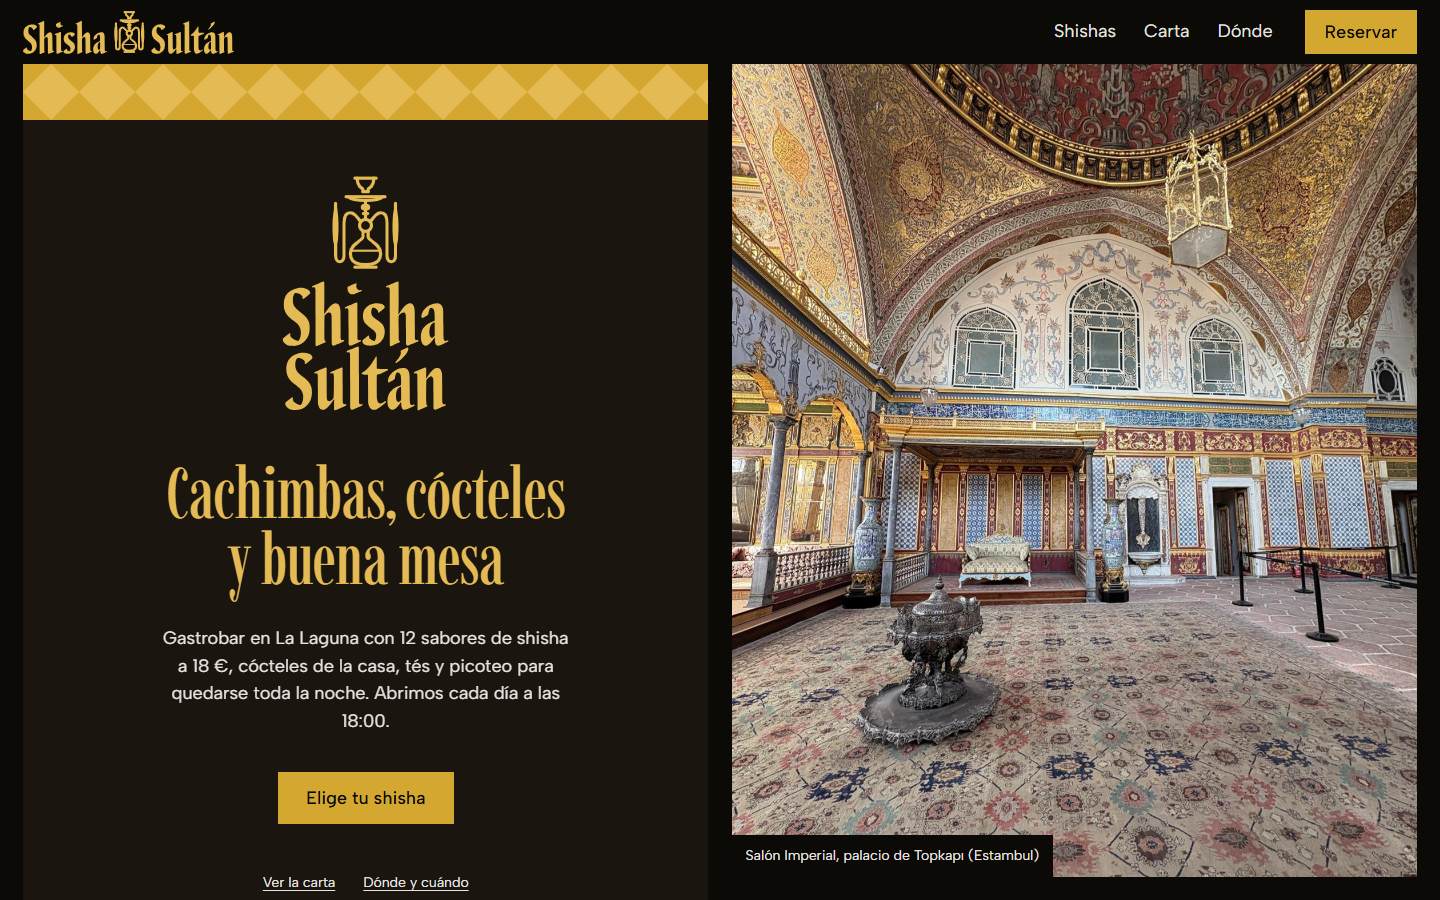
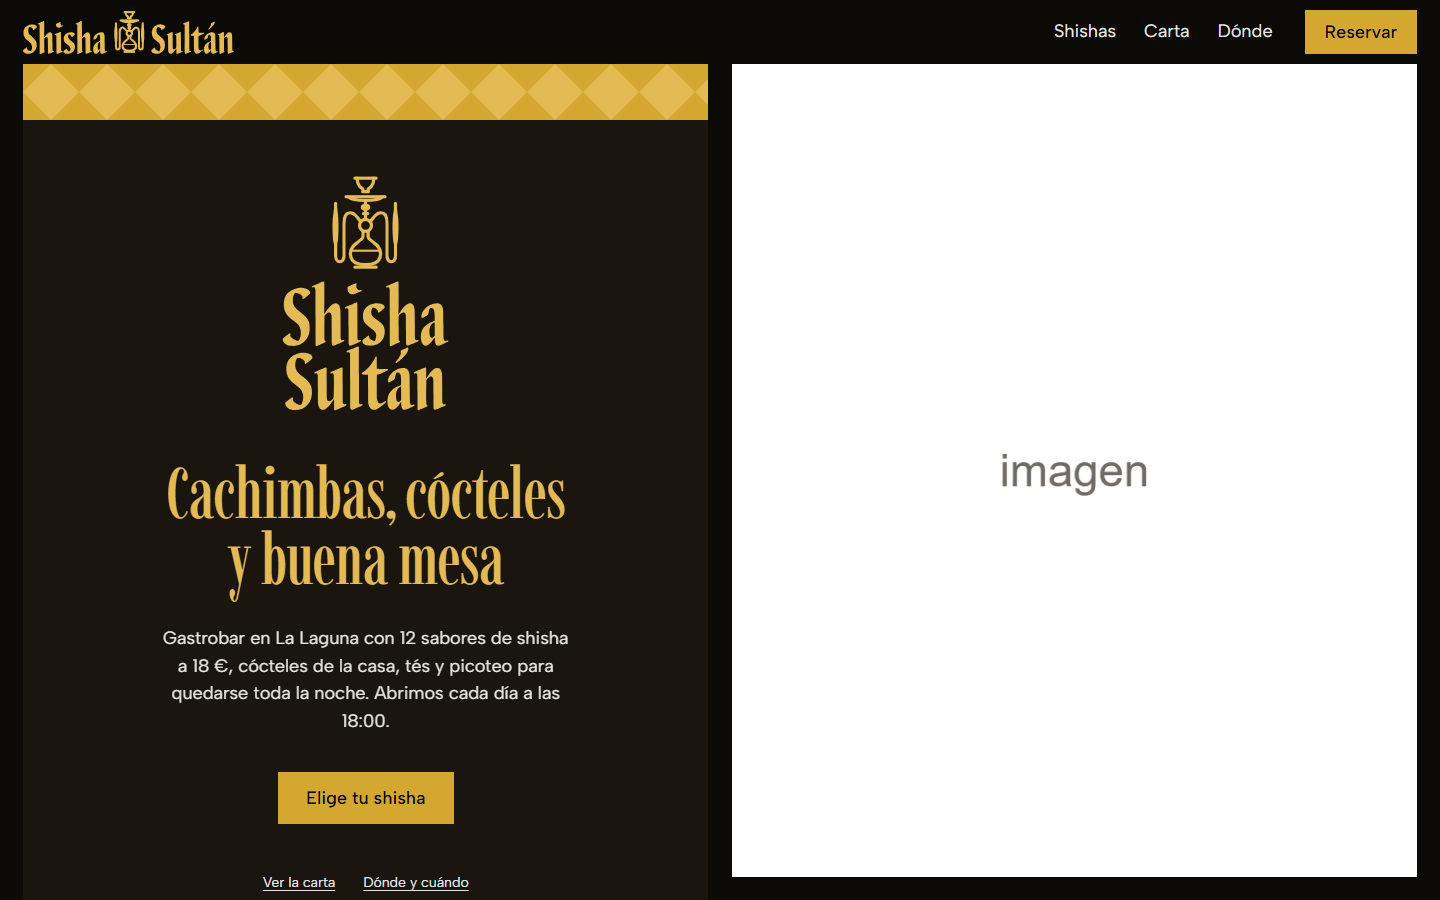
Cambia las fotos por una imagen blanca provisional
Las cuatro fotos (portada, shishas, carta y fondo del pie) pasan a
ser assets/imagen.svg, una imagen blanca con la palabra «imagen»,
hasta tener fotos propias del local. Se quitan los pies de foto,
los créditos de Wikimedia y las fotos de archivo. El fondo del pie
se oscurece un poco más para que el texto se lea.

diff --git a/index.html b/index.html
@@ -17,7 +17,6 @@
 </script>
 <meta property="og:title" content="Shisha Sultán · Gastrobar y cachimbas">
 <meta property="og:description" content="12 sabores de shisha a 18 €, cócteles, tés y picoteo en La Laguna. Todos los días desde las 18:00.">
-<meta property="og:image" content="assets/topkapi-palace-imperial-hall-general-view.jpg">
 <link rel="preconnect" href="https://fonts.googleapis.com">
 <link rel="preconnect" href="https://fonts.gstatic.com" crossorigin>
 <link href="https://fonts.googleapis.com/css2?family=Imbue:opsz,wght@10..100,500&family=Albert+Sans:wght@400;500&display=swap" rel="stylesheet">
@@ -28,7 +27,6 @@
   "name": "Shisha Sultán",
   "description": "Gastrobar y lounge de cachimbas: 12 sabores de shisha, cócteles, tés y picoteo.",
   "url": "https://oliva3blanca.github.io/shisha-sultan-web/",
-  "image": "https://oliva3blanca.github.io/shisha-sultan-web/assets/topkapi-palace-imperial-hall-general-view.jpg",
   "telephone": "+34 822 64 16 12",
   "address": {
     "@type": "PostalAddress",
@@ -90,8 +88,7 @@
       </div>
     </section>
     <figure class="escena__foto escena__foto--portada">
-      <img src="assets/topkapi-palace-imperial-hall-general-view.jpg" alt="Salón Imperial del palacio de Topkapı, con azulejos, cúpula dorada y alfombras" width="1200" height="1600" fetchpriority="high">
-      <figcaption>Salón Imperial, palacio de Topkapı (Estambul)</figcaption>
+      <img src="assets/imagen.svg" alt="" width="1000" height="1000" fetchpriority="high">
     </figure>
   </div>
 
@@ -135,8 +132,7 @@
       </div>
 
       <figure class="shishas__foto">
-        <img src="assets/pierre-loti.jpg" alt="Retrato antiguo en blanco y negro de un hombre sentado junto a una nargile" width="989" height="1600" loading="lazy" decoding="async">
-        <figcaption>Pierre Loti con su nargile, hacia 1900</figcaption>
+        <img src="assets/imagen.svg" alt="" width="1000" height="1000" loading="lazy" decoding="async">
       </figure>
     </div>
   </section>
@@ -162,8 +158,7 @@
     </div>
 
     <div class="escena__foto escena__foto--lectura" aria-hidden="true">
-      <img class="activa" src="assets/torok-kavehazban.jpg" alt="" width="934" height="1600" loading="lazy" decoding="async">
-      <p class="escena__pie">Un café otomano, pintura de hacia 1560</p>
+      <img class="activa" src="assets/imagen.svg" alt="" width="1000" height="1000" loading="lazy" decoding="async">
     </div>
   </div>
 
@@ -200,7 +195,7 @@
 
 <footer class="pie">
   <svg class="capitone capitone--fino" aria-hidden="true" focusable="false"><rect width="100%" height="100%" fill="url(#rombo-oro)"/></svg>
-  <img class="pie__foto" src="assets/topkapi-palace-istanbul-turkey.jpg" alt="" width="1600" height="1200" loading="lazy" decoding="async">
+  <img class="pie__foto" src="assets/imagen.svg" alt="" width="1000" height="1000" loading="lazy" decoding="async">
   <div class="pie__arriba">
     <ul>
       <li><a href="#shishas">Shishas</a></li>
@@ -212,8 +207,8 @@
   </div>
   <div class="pie__abajo">
     <img class="pie__nombre" src="brand/logo-nombre-oro.svg" alt="Shisha Sultán" width="1200" height="259" loading="lazy">
-    <p class="pie__legal">© 2026 Shisha Sultán · Solo mayores de 18 años · Imágenes: <!-- creditos:inicio -->
-<a href="https://commons.wikimedia.org/wiki/File:In_a_Turkish_coffee_house.jpg">Casa de café otomana</a> (autor desconocido, dominio público), <a href="https://commons.wikimedia.org/wiki/File:Topkapi_Palace_Imperial_Hall_General_View.jpg">Salón Imperial de Topkapı</a> (Emirrnk1, CC BY-SA 4.0), <a href="https://commons.wikimedia.org/wiki/File:Topkapi_Palace,_Istanbul,_Turkey.JPG">Techo del harén de Topkapı</a> (Thingstodoeverywhere, dominio público), <a href="https://commons.wikimedia.org/wiki/File:Pierre_Loti.jpg">Pierre Loti</a> (Nérostrateur, dominio público), en Wikimedia Commons
+    <p class="pie__legal">© 2026 Shisha Sultán · Solo mayores de 18 años<!-- creditos:inicio -->
+
 <!-- creditos:fin --></p>
   </div>
 </footer>

diff --git a/styles.css b/styles.css
@@ -146,7 +146,7 @@ h1, h2, h3, h4 { font-family: var(--display); font-weight: 500; letter-spacing: 
 @keyframes cambia { from { opacity: 0; transform: translateY(10px); } to { opacity: 1; transform: none; } }
 
 .shishas__foto { grid-column: 1 / 5; grid-row: 3; }
-.shishas__foto img { width: 100%; aspect-ratio: 4 / 5; object-fit: cover; object-position: 50% 15%; filter: grayscale(1) contrast(1.05); }
+.shishas__foto img { width: 100%; aspect-ratio: 4 / 5; object-fit: cover; }
 .shishas__foto figcaption { font-size: var(--step-small); margin-top: 12px; color: var(--tabaco); }
 
 /* ---------- lectura: carta y la casa ---------- */
@@ -207,7 +207,7 @@ h1, h2, h3, h4 { font-family: var(--display); font-weight: 500; letter-spacing: 
 /* ---------- pie ---------- */
 .pie { position: relative; min-height: 100svh; display: flex; flex-direction: column; justify-content: space-between; overflow: hidden; color: var(--marfil); }
 .pie .capitone--fino { position: relative; z-index: 2; }
-.pie__foto { position: absolute; inset: 8px 0 0; width: 100%; height: calc(100% - 8px); object-fit: cover; filter: brightness(0.42); }
+.pie__foto { position: absolute; inset: 8px 0 0; width: 100%; height: calc(100% - 8px); object-fit: cover; filter: brightness(0.3); }
 .pie__arriba, .pie__abajo { position: relative; z-index: 1; padding: 32px var(--m); }
 .pie__arriba { display: flex; justify-content: space-between; gap: 32px; flex-wrap: wrap; }
 .pie__arriba ul { display: grid; gap: 8px; }

diff --git a/herramientas/generar_carta.py b/herramientas/generar_carta.py
@@ -58,6 +58,8 @@ def carta(secciones):
 
 
 def creditos(lista):
+    if not lista:
+        return ""
     partes = []
     for c in lista:
         lic = "dominio público" if c["licenseCode"] in ("pd", "cc0") else c["license"]
@@ -66,7 +68,7 @@ def creditos(lista):
             autor = "autor desconocido"
         titulo = c.get("titulo_es") or c["title"]
         partes.append(f'<a href="{escape(c["page"])}">{escape(titulo)}</a> ({escape(autor)}, {escape(lic)})')
-    return ", ".join(partes) + ", en Wikimedia Commons"
+    return " · Imágenes: " + ", ".join(partes) + ", en Wikimedia Commons"
 
 
 def poner(html, marca, contenido):

diff --git a/README.md b/README.md
@@ -15,7 +15,7 @@ Web de **Shisha Sultán**, gastrobar y lounge de cachimbas en La Laguna (Tenerif
 | `contenido/` | Textos reales del local (la carta extraída del PDF). |
 
 | `index.html` · `styles.css` · `script.js` | La web. |
-| `assets/` | Imágenes de archivo con licencia libre; sus créditos, en `assets/credits.json` y en el pie de la web. |
+| `assets/` | `imagen.svg`, la imagen blanca provisional que ocupa el sitio de las fotos. Sustitúyela por fotos del local cambiando el `src` de cada `<img>` en `index.html`. |
 | `herramientas/generar_carta.py` | Escribe la carta, los sabores y los créditos dentro de `index.html`. |
 | `capturas/` | Capturas de la web en escritorio y móvil. |
 
